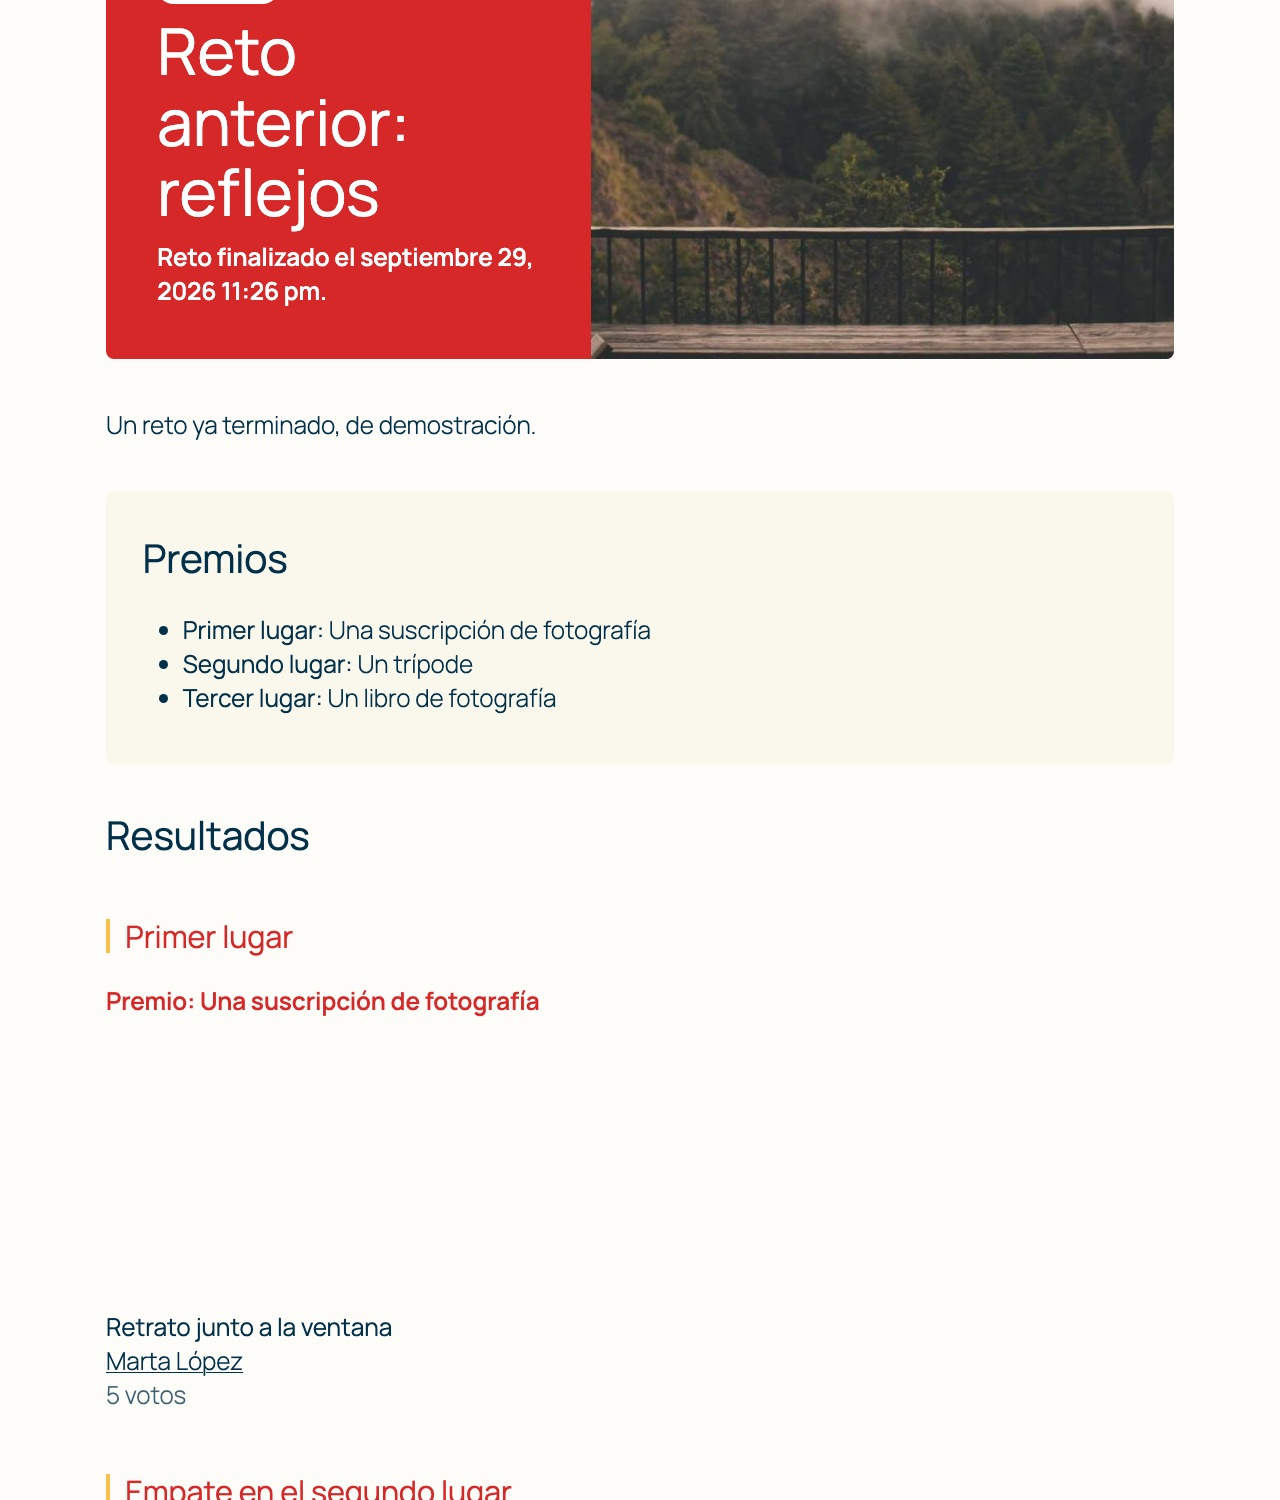
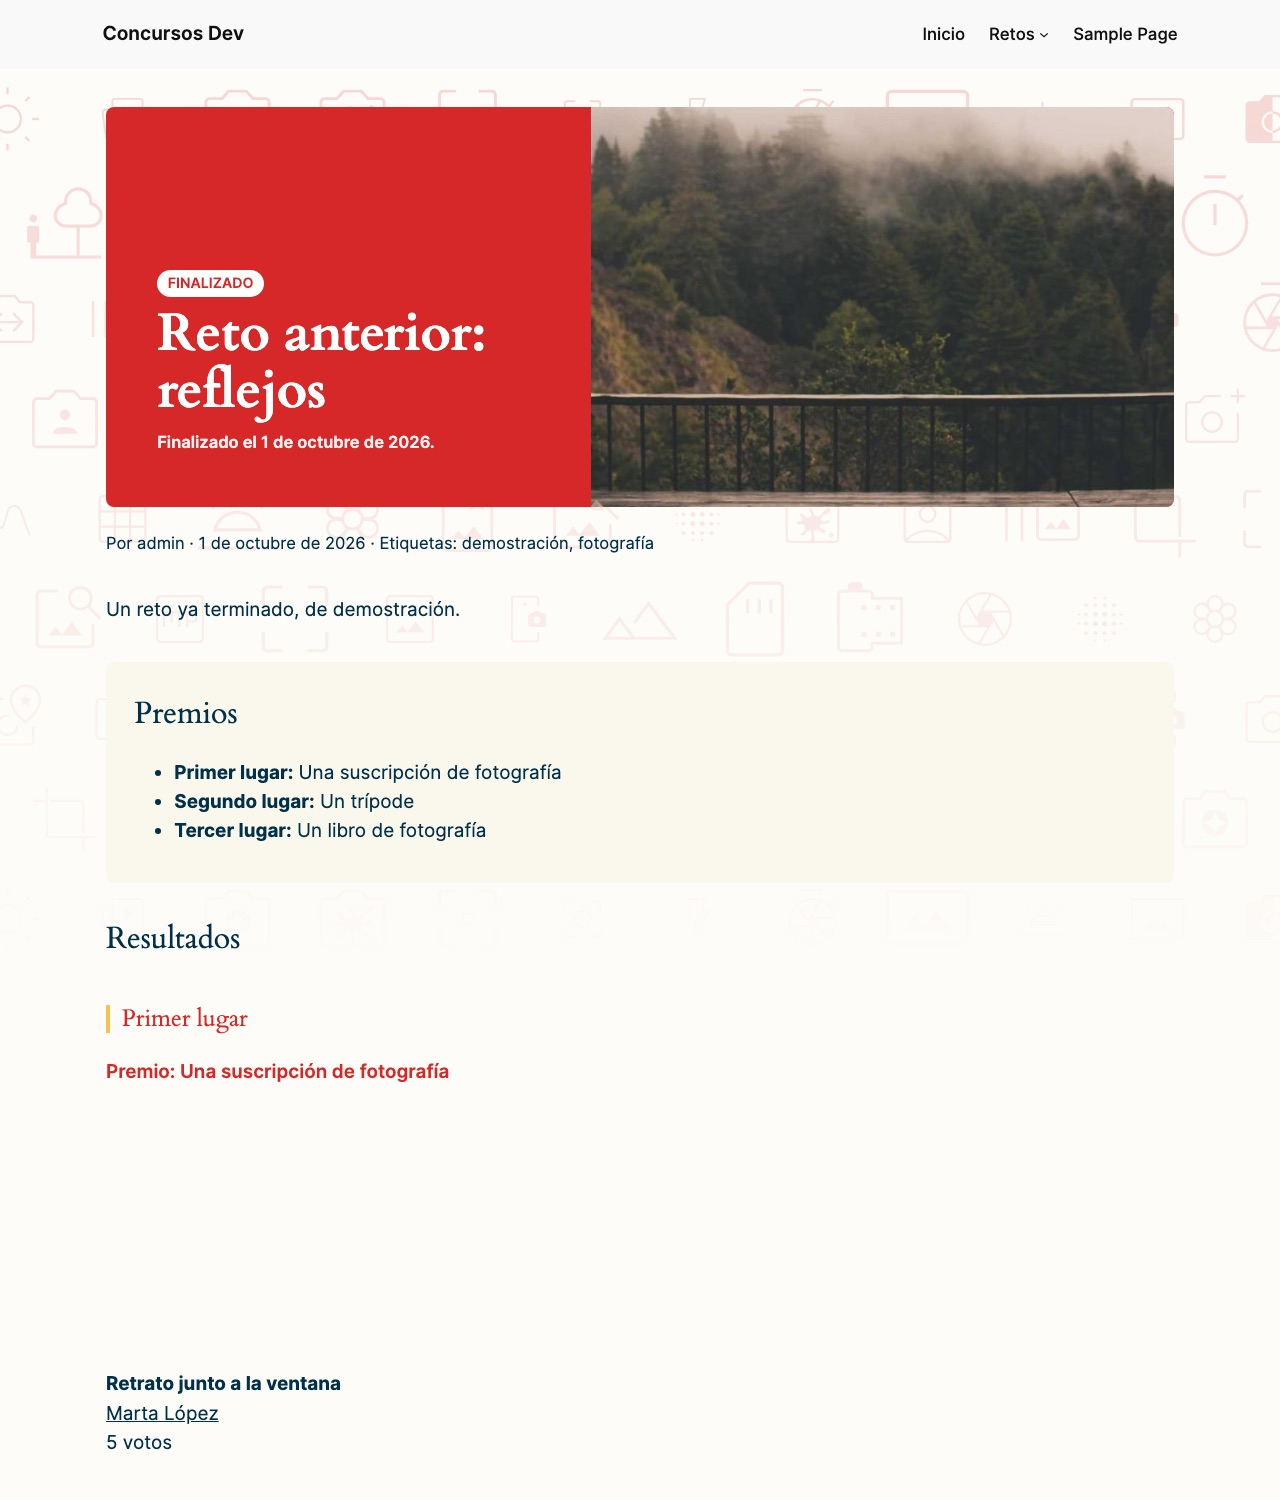
Capturas y documentación del fondo de iconos

diff --git a/README.md b/README.md
@@ -34,7 +34,9 @@ Pensado para asociaciones de fotografía, escuelas y organizaciones que ya tiene
 | 📣 **Avisos de nuevos retos** | Quien se suscribe recibe un email al publicarse un reto, y puede darse de baja cuando quiera. |
 | 🧬 **Duplicar retos** | Crea una nueva edición en un clic, copiando o no a sus participantes activos. |
 | 🎨 **Diseño por reto** | Los colores del tema o 10 paletas armónicas, y 3 tamaños de texto. La tipografía siempre es la de tu tema. |
-| 🌍 **Inglés y español** | Traducción completa, válida para cualquier variante regional del español. |
+| 🖼 **Fondo de iconos** | Un mosaico de 44 iconos de fotografía con el color del reto, que se funde con el fondo de la página. Se activa por reto en la portada, el detalle y la inscripción. |
+| 🌍 **Inglés y español** | Traducción completa, válida para cualquier variante regional del español. Las direcciones siguen el idioma del sitio: `/retos/` o `/challenges/`. |
+| 🧹 **Desinstalación limpia** | Al borrar el plugin desde WordPress se eliminan sus retos, participantes, fotos, votos y ajustes. |
 
 ## Capturas
 
@@ -58,6 +60,12 @@ Pensado para asociaciones de fotografía, escuelas y organizaciones que ya tiene
 Diez combinaciones tomadas de las más populares de [Coolors](https://coolors.co/palettes/popular/modern), todas con contraste AA.
 
 <p align="center"><img alt="Las diez paletas disponibles" src="docs/screenshots/paletas.jpg" width="640"></p>
+
+### Fondo de iconos
+
+Cada reto decide en qué páginas aparece: portada de retos, detalle del reto o inscripción. Si se desmarcan todas, no se muestra. La portada y la inscripción siguen al reto destacado.
+
+<p align="center"><img alt="Página de inscripción con el fondo de iconos" src="docs/screenshots/inscripcion.jpg" width="820"></p>
 
 ## Instalación
 
@@ -103,8 +111,8 @@ make reset                  # borra todo
 | phpMyAdmin  | http://localhost:8081          | automático    |
 | Mailpit     | http://localhost:8025          | emails de prueba |
 
-La raíz del repositorio es el plugin y está montada en `wp-content/plugins/concursos`: los cambios se ven al recargar el navegador. En local, ningún email sale de verdad; todos llegan a Mailpit.
+La raíz del repositorio es el plugin y está montada en `wp-content/plugins/photo-challenges`: los cambios se ven al recargar el navegador. En local, ningún email sale de verdad; todos llegan a Mailpit.
 
 ## Licencia
 
-[GPL-2.0 o posterior](LICENSE). Las fotos de las capturas y de la demo son de muestra, servidas por [Lorem Picsum](https://picsum.photos) bajo la [licencia de Unsplash](https://unsplash.com/license).
+[GPL-2.0 o posterior](LICENSE). Las fotos de las capturas y de la demo son de muestra, servidas por [Lorem Picsum](https://picsum.photos) bajo la [licencia de Unsplash](https://unsplash.com/license). Los iconos del fondo son [Material Symbols](https://fonts.google.com/icons) de Google, bajo la [licencia Apache 2.0](https://www.apache.org/licenses/LICENSE-2.0).
